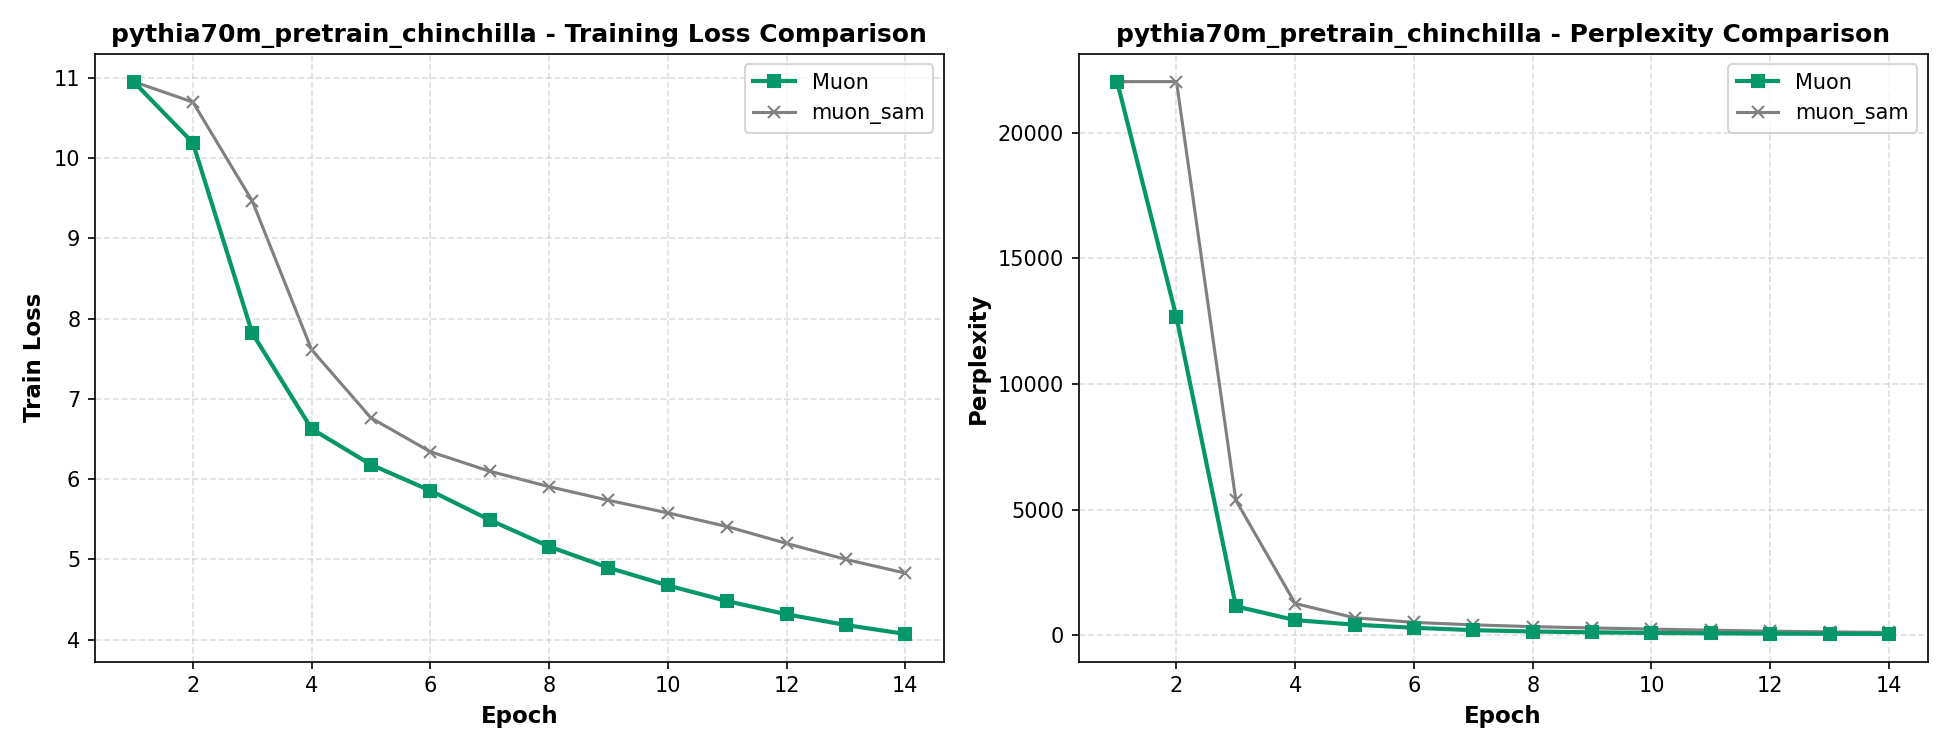
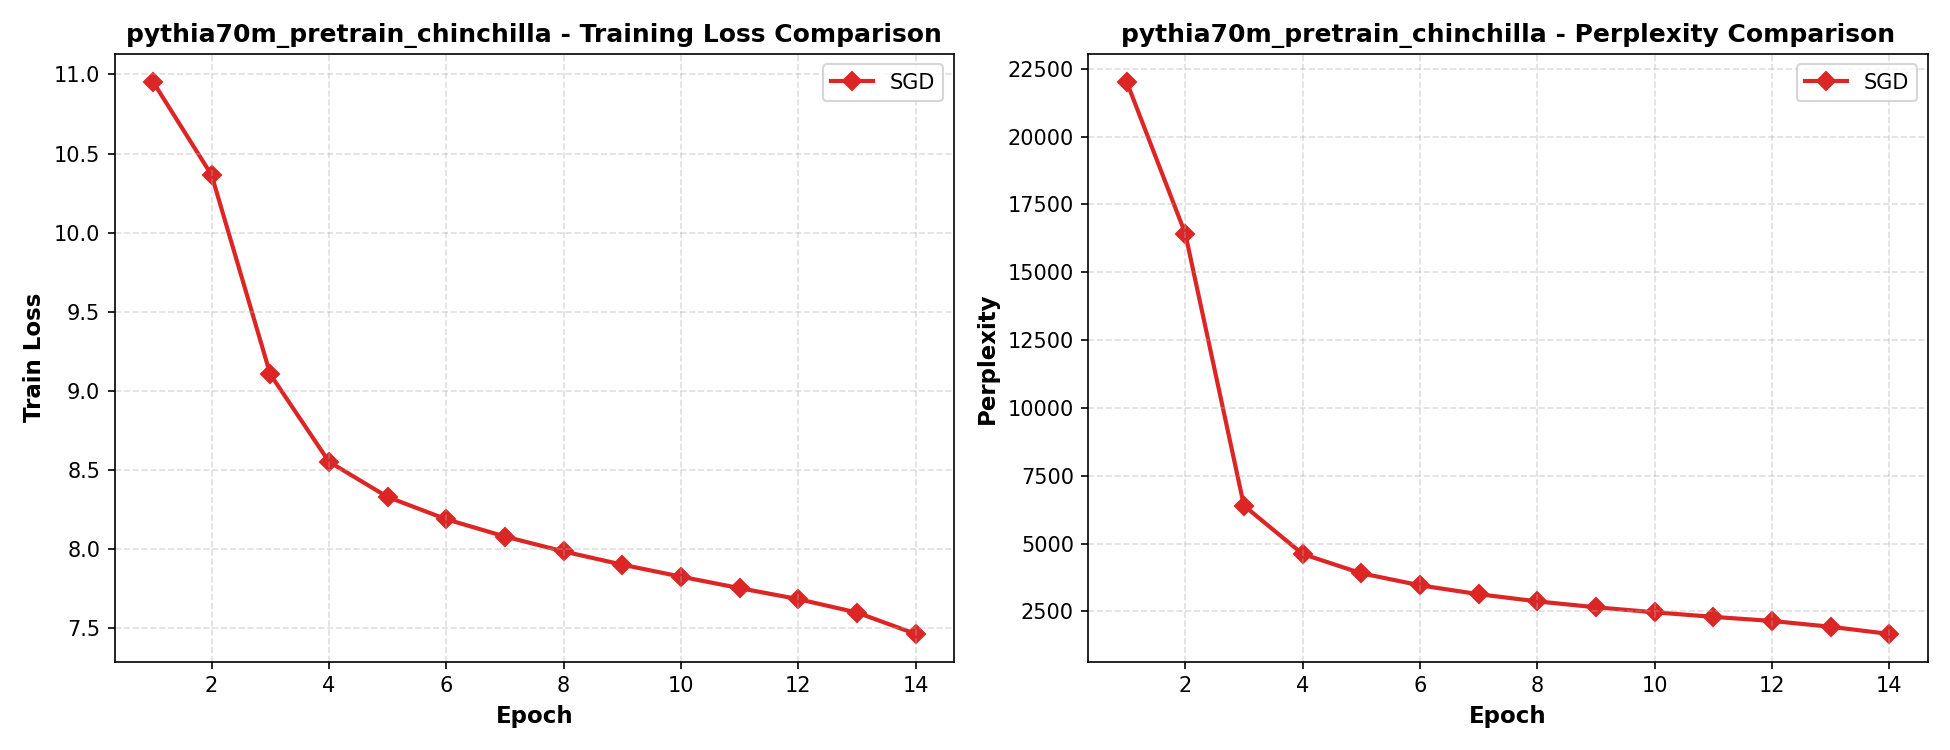
sgd optimised

diff --git a/main_experiment.py b/main_experiment.py
@@ -115,11 +115,12 @@ def run_config_benchmark(config_path, optimizers=None, epochs_override=None):
                 "weight_decay": opt_dict.get("weight_decay", 0.01),
             }
         elif opt_name == "sgd":
-            opt_dict = opts_cfg.get("sgd", {})
+            opt_dict = opts_cfg.get("sgd", {}) or opts_cfg.get("sgd_nesterov_baseline", {})
             best_params = {
-                "lr": opt_dict.get("lr", 0.001),
-                "momentum": opt_dict.get("momentum", 0.9),
-                "weight_decay": opt_dict.get("weight_decay", 0.01),
+                "lr": opt_dict.get("lr", 0.05 if task_type != "image_classification" else 0.1),
+                "momentum": opt_dict.get("momentum", 0.95 if task_type != "image_classification" else 0.9),
+                "weight_decay": opt_dict.get("weight_decay", 0.01 if task_type != "image_classification" else 0.001),
+                "nesterov": opt_dict.get("nesterov", True),
             }
         else:
             best_params = {"lr": 0.01, "weight_decay": 1e-4}

diff --git a/utils/helpers.py b/utils/helpers.py
@@ -137,7 +137,7 @@ def make_optimizer(name, model, params, epochs=5, steps_per_epoch=100):
         opt = torch.optim.AdamW(trainable_params, lr=lr, weight_decay=wd, eps=1e-7)
         return opt, get_wsd_schedule(opt)
     elif name == "sgd":
-        opt = torch.optim.SGD(trainable_params, lr=lr, momentum=params.get("momentum", 0.9), weight_decay=wd)
+        opt = torch.optim.SGD(trainable_params, lr=lr, momentum=params.get("momentum", 0.9), weight_decay=wd, nesterov=params.get("nesterov", True))
         return opt, get_wsd_schedule(opt)
 
     raise ValueError(f"Unknown optimizer: {name}")
